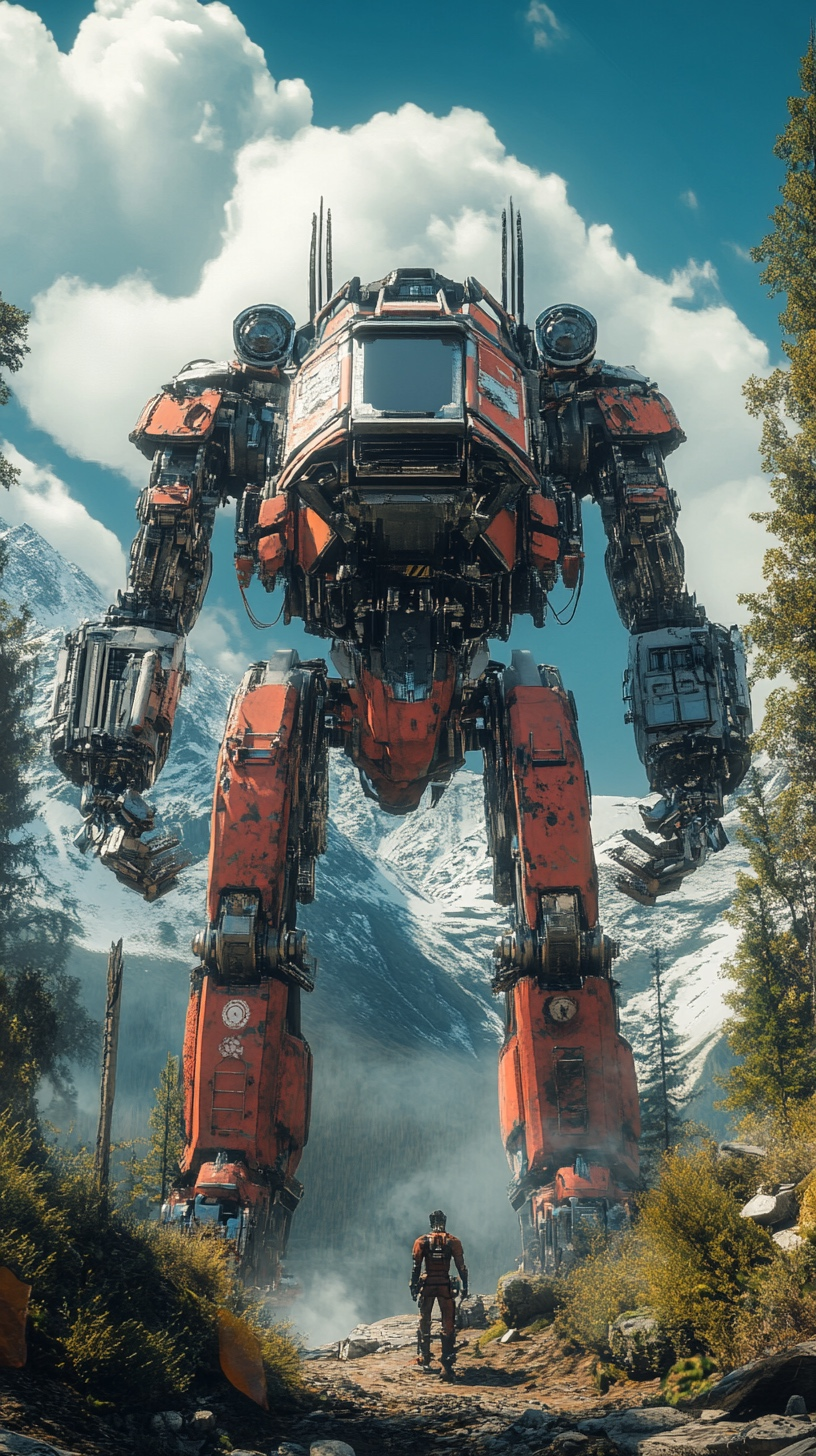
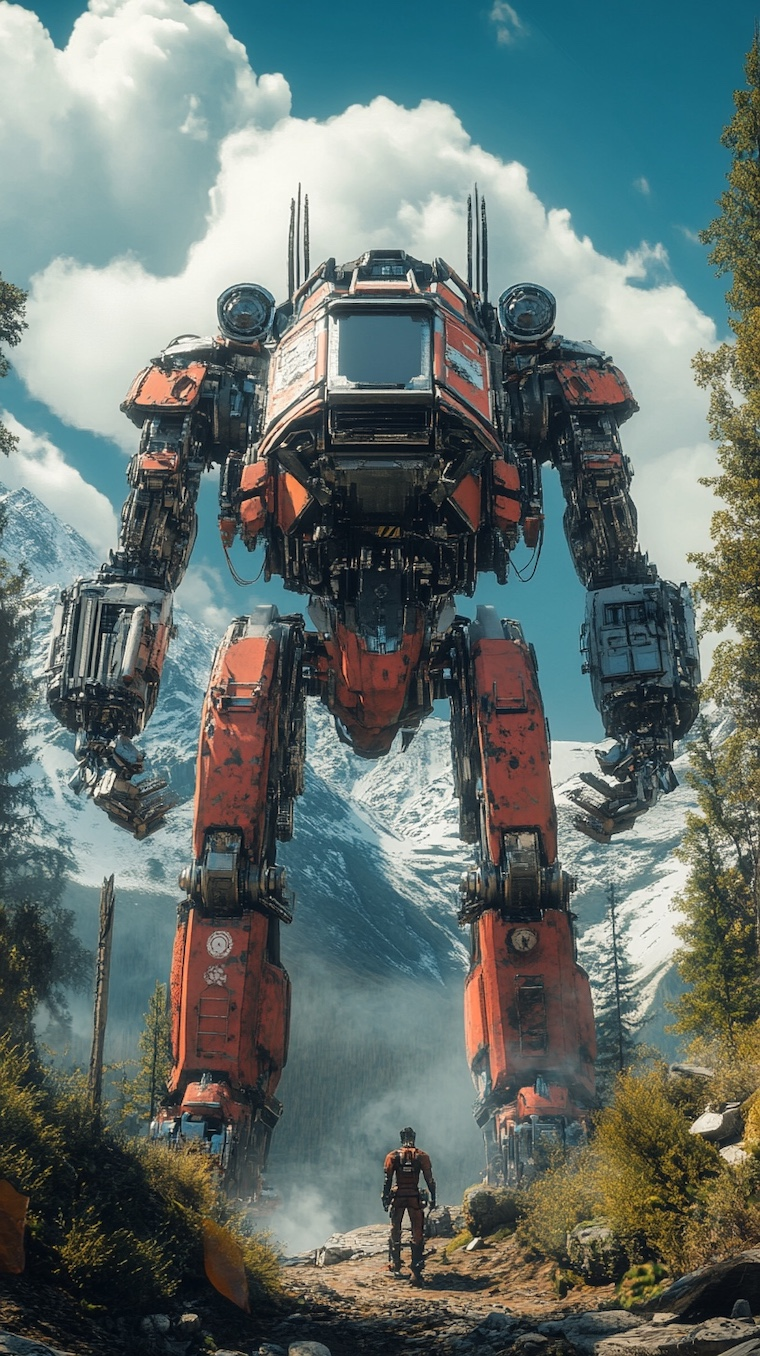
Updated S3 home direction and destination

diff --git a/website/index.html b/website/index.html
@@ -29,11 +29,11 @@
     @media (max-width: 768px) {
   body {
     background: url('images/ivanresumebackground1-mobile.jpeg') no-repeat center center fixed;
-    background-size: cover;
+    background-size: contain;
   }
   .lightning {
     flex-direction: column;
-    transform: scale(0.90);
+    transform: scale(0.99);
   }
   .scroll-up-animation {
     display: none; /* Hide the scroll-up image on small screens */
